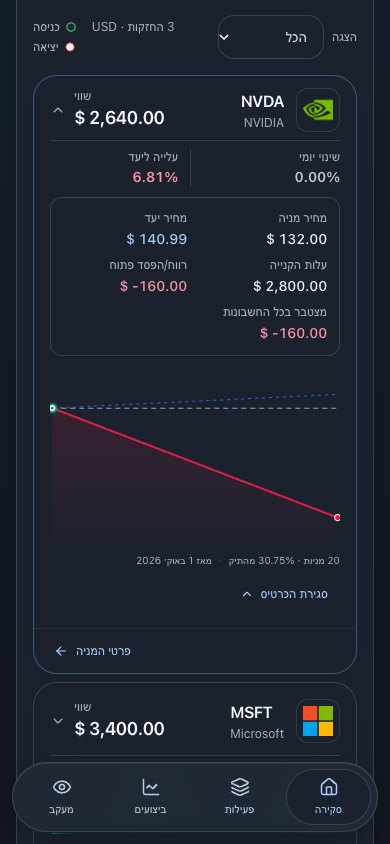
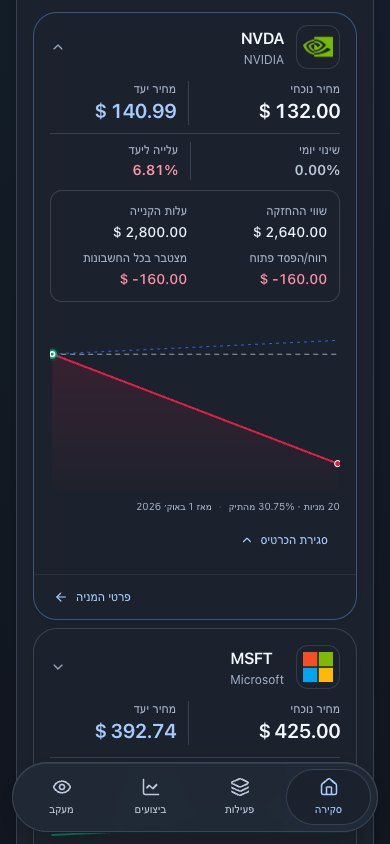
Pair current and target share prices in holding card headers

diff --git a/__tests__/overview-holdings.test.tsx b/__tests__/overview-holdings.test.tsx
@@ -26,7 +26,8 @@ describe('overview holdings continuity', () => {
     expect(card.getByText('-2.50%')).toBeInTheDocument();
     expect(card.getByText('Rise to target')).toBeInTheDocument();
     expect(card.getByText('10.00%')).toBeInTheDocument();
-    expect(card.getByText('Value')).toBeInTheDocument();
+    expect(card.getByText('Current price')).toBeInTheDocument();
+    expect(card.getByText('Target price')).toBeInTheDocument();
     expect(within(screen.getByRole('button', { name: 'Expand MSFT details' })).getByText('—')).toBeInTheDocument();
     const table = within(screen.getByRole('table'));
     const apple = within(table.getByRole('row', { name: /AAPL/ }));
@@ -55,7 +56,7 @@ describe('overview holdings continuity', () => {
     expect(document.querySelector('[data-price-line="true"]')).toBeInTheDocument();
   });
 
-  it('shows a sale target recovering earlier partial losses in the expanded card', () => {
+  it('shows a sale target recovering earlier partial losses in the card header', () => {
     const asOf = new Date('2025-01-01T00:00:00Z');
     const position: Position = {
       id: 'TEST', symbol: 'TEST', display: 'Test Corp', imageUrl: '',
@@ -72,16 +73,18 @@ describe('overview holdings continuity', () => {
     fireEvent.click(button);
     const summary = within(document.getElementById(button.getAttribute('aria-controls')!)!);
     expect(button).toHaveAttribute('aria-expanded', 'true');
-    expect(summary.getByText(formatCurrency(123.37, 'USD', 'en'))).toBeInTheDocument();
+    expect(within(button).getByText(formatCurrency(100, 'USD', 'en'))).toBeInTheDocument();
+    expect(within(button).getByText(formatCurrency(123.37, 'USD', 'en'))).toBeInTheDocument();
+    expect(within(button).queryByText(formatCurrency(600, 'USD', 'en'))).not.toBeInTheDocument();
+    expect(summary.getByText('Holding value').nextElementSibling).toHaveTextContent(formatCurrency(600, 'USD', 'en'));
     expect(within(button).getByText(/23\.37%/)).toBeInTheDocument();
     expect(summary.queryByText(/23\.37%/)).not.toBeInTheDocument();
-    expect(summary.queryByText(formatCurrency(110, 'USD', 'en'))).not.toBeInTheDocument();
+    expect(within(button).queryByText(formatCurrency(110, 'USD', 'en'))).not.toBeInTheDocument();
   });
   it('rounds the target upward to a tradable cent before comparing it with today’s price', () => {
     render(<OverviewHoldings metrics={[{ ...metric('AAPL', 0), requiredExitPrice: 100.001 }]} />);
     const button = screen.getByRole('button', { name: 'Expand AAPL details' });
-    fireEvent.click(button);
-    const summary = within(document.getElementById(button.getAttribute('aria-controls')!)!);
+    const summary = within(button);
     expect(summary.getByText(formatCurrency(100.01, 'USD', 'en'))).toBeInTheDocument();
     expect(within(button).getByText(/0\.01%/)).toBeInTheDocument();
   });
@@ -97,10 +100,9 @@ describe('overview holdings continuity', () => {
   it('leaves an unavailable full-history sale target unknown instead of using the open-lot target', () => {
     render(<OverviewHoldings metrics={[{ ...metric('AAPL', -10), requiredExitPrice: undefined, projectedPrice: 110 }]} />);
     const button = screen.getByRole('button', { name: 'Expand AAPL details' });
-    fireEvent.click(button);
-    const summary = within(document.getElementById(button.getAttribute('aria-controls')!)!);
-    expect(summary.getAllByText('—').length).toBeGreaterThan(0);
-    expect(summary.queryByText(formatCurrency(110, 'USD', 'en'))).not.toBeInTheDocument();
+    const summary = within(button);
+    expect(summary.getAllByText('—')).toHaveLength(2);
+    expect(within(button).queryByText(formatCurrency(110, 'USD', 'en'))).not.toBeInTheDocument();
   });
   it('expands mobile details by keyboard, keeps a single card open, and restores stock return context', async () => {
     const user = userEvent.setup();

diff --git a/components/portfolio/overview-holding-card.tsx b/components/portfolio/overview-holding-card.tsx
@@ -169,9 +169,16 @@ export function OverviewHoldingCard({ metric: m, points, contextPoints, expanded
             <StockLogo symbol={m.position.symbol} display={m.position.display} imageUrl={m.position.imageUrl} />
             <span className="min-w-0"><span className="block truncate text-base font-semibold tracking-tight text-slate-950" dir="ltr">{m.position.symbol}</span><span className="holding-company mt-0.5 block truncate text-xs text-slate-500">{m.position.display}</span></span>
           </span>
-          <span className="flex shrink-0 items-center gap-2">
-            <span className="text-end"><span className="block text-xs text-slate-500">{he ? 'שווי' : 'Value'}</span><bdi className="block text-lg font-semibold tabular-nums tracking-tight text-slate-950">{money(value)}</bdi></span>
-            <ChevronDown aria-hidden="true" className="holding-chevron h-4 w-4 text-slate-400" />
+          <ChevronDown aria-hidden="true" className="holding-chevron h-4 w-4 shrink-0 text-slate-400" />
+        </span>
+        <span className="mt-3 grid grid-cols-2 gap-3">
+          <span>
+            <span className="block text-xs text-slate-500">{he ? 'מחיר נוכחי' : 'Current price'}</span>
+            <bdi className="block text-xl font-semibold tracking-tight tabular-nums text-slate-950">{usd(m.currentPrice)}</bdi>
+          </span>
+          <span className="border-s border-slate-200 ps-3">
+            <span className="block text-xs text-slate-500">{he ? 'מחיר יעד' : 'Target price'}</span>
+            <bdi className="block text-xl font-semibold tracking-tight tabular-nums text-blue-700">{usd(target.salePrice)}</bdi>
           </span>
         </span>
         <span className="holding-summary-grid mt-3 grid grid-cols-2 gap-3 border-t border-slate-200 pt-2">
@@ -188,9 +195,8 @@ export function OverviewHoldingCard({ metric: m, points, contextPoints, expanded
         toggleFromUser();
       }}>
         <div className="holding-detail-content px-4 pb-4 sm:px-5 sm:pb-5">
-          <dl className="grid grid-cols-2 gap-x-4 gap-y-2 rounded-xl border border-slate-200 px-3 py-3 sm:grid-cols-3">
-            <div><dt className="text-xs text-slate-500">{he ? 'מחיר מניה' : 'Share price'}</dt><dd className="mt-1.5 text-sm font-medium tabular-nums text-slate-900"><bdi>{usd(m.currentPrice)}</bdi></dd></div>
-            <div><dt className="text-xs text-slate-500">{he ? 'מחיר יעד' : 'Target price'}</dt><dd className="mt-1.5 text-sm font-medium tabular-nums text-blue-700"><bdi>{usd(target.salePrice)}</bdi></dd></div>
+          <dl className="grid grid-cols-2 gap-x-4 gap-y-2 rounded-xl border border-slate-200 px-3 py-3 sm:grid-cols-4">
+            <div><dt className="text-xs text-slate-500">{he ? 'שווי ההחזקה' : 'Holding value'}</dt><dd className="mt-1.5 text-sm font-medium tabular-nums text-slate-900"><bdi>{money(value)}</bdi></dd></div>
             <div><dt className="text-xs text-slate-500">{he ? 'עלות הקנייה' : 'Purchase cost'}</dt><dd className="mt-1.5 text-sm font-medium tabular-nums text-slate-900"><bdi>{money(cost)}</bdi></dd></div>
             <div><dt className="text-xs text-slate-500">{he ? 'רווח/הפסד פתוח' : 'Unrealized P/L'}</dt><dd className={`mt-1.5 text-sm font-medium tabular-nums ${tone(pnl)}`}><bdi>{money(pnl)}</bdi></dd></div>
             <div><dt className="text-xs text-slate-500">{he ? 'מצטבר בכל החשבונות' : 'P/L across accounts'}</dt><dd className={`mt-1.5 text-sm font-medium tabular-nums ${tone(cumulativeProfit ?? 0)}`}><bdi>{usd(cumulativeProfit ?? undefined)}</bdi></dd></div>
